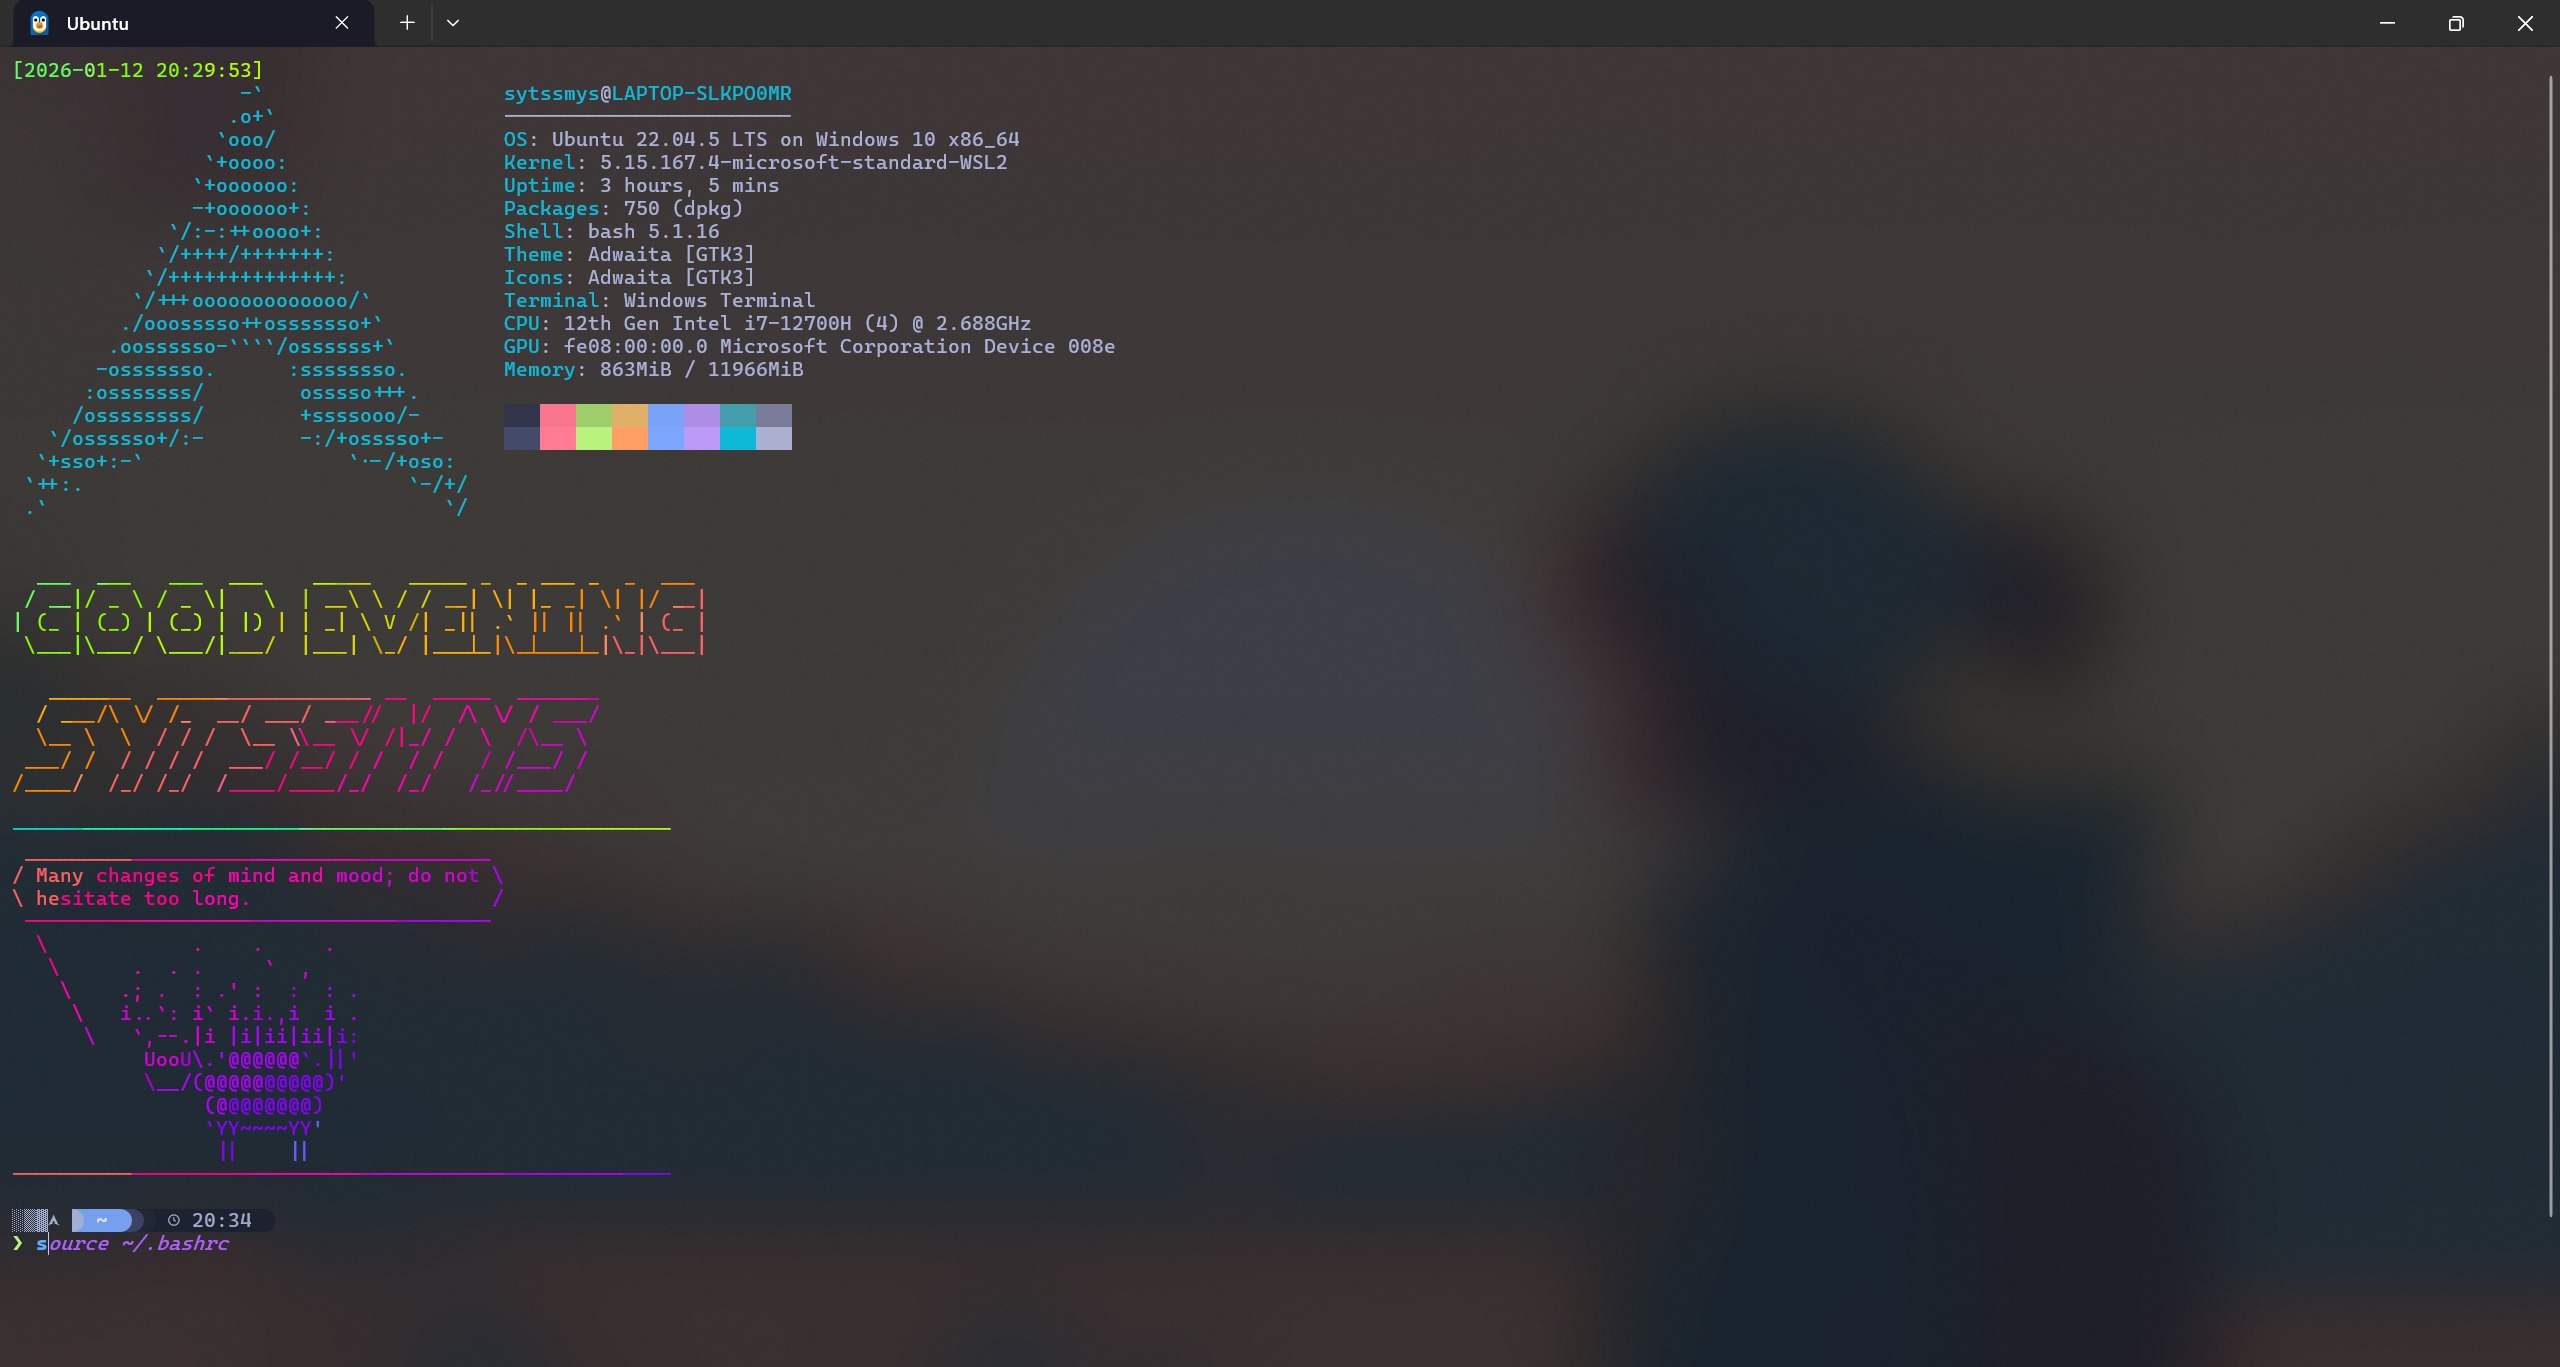
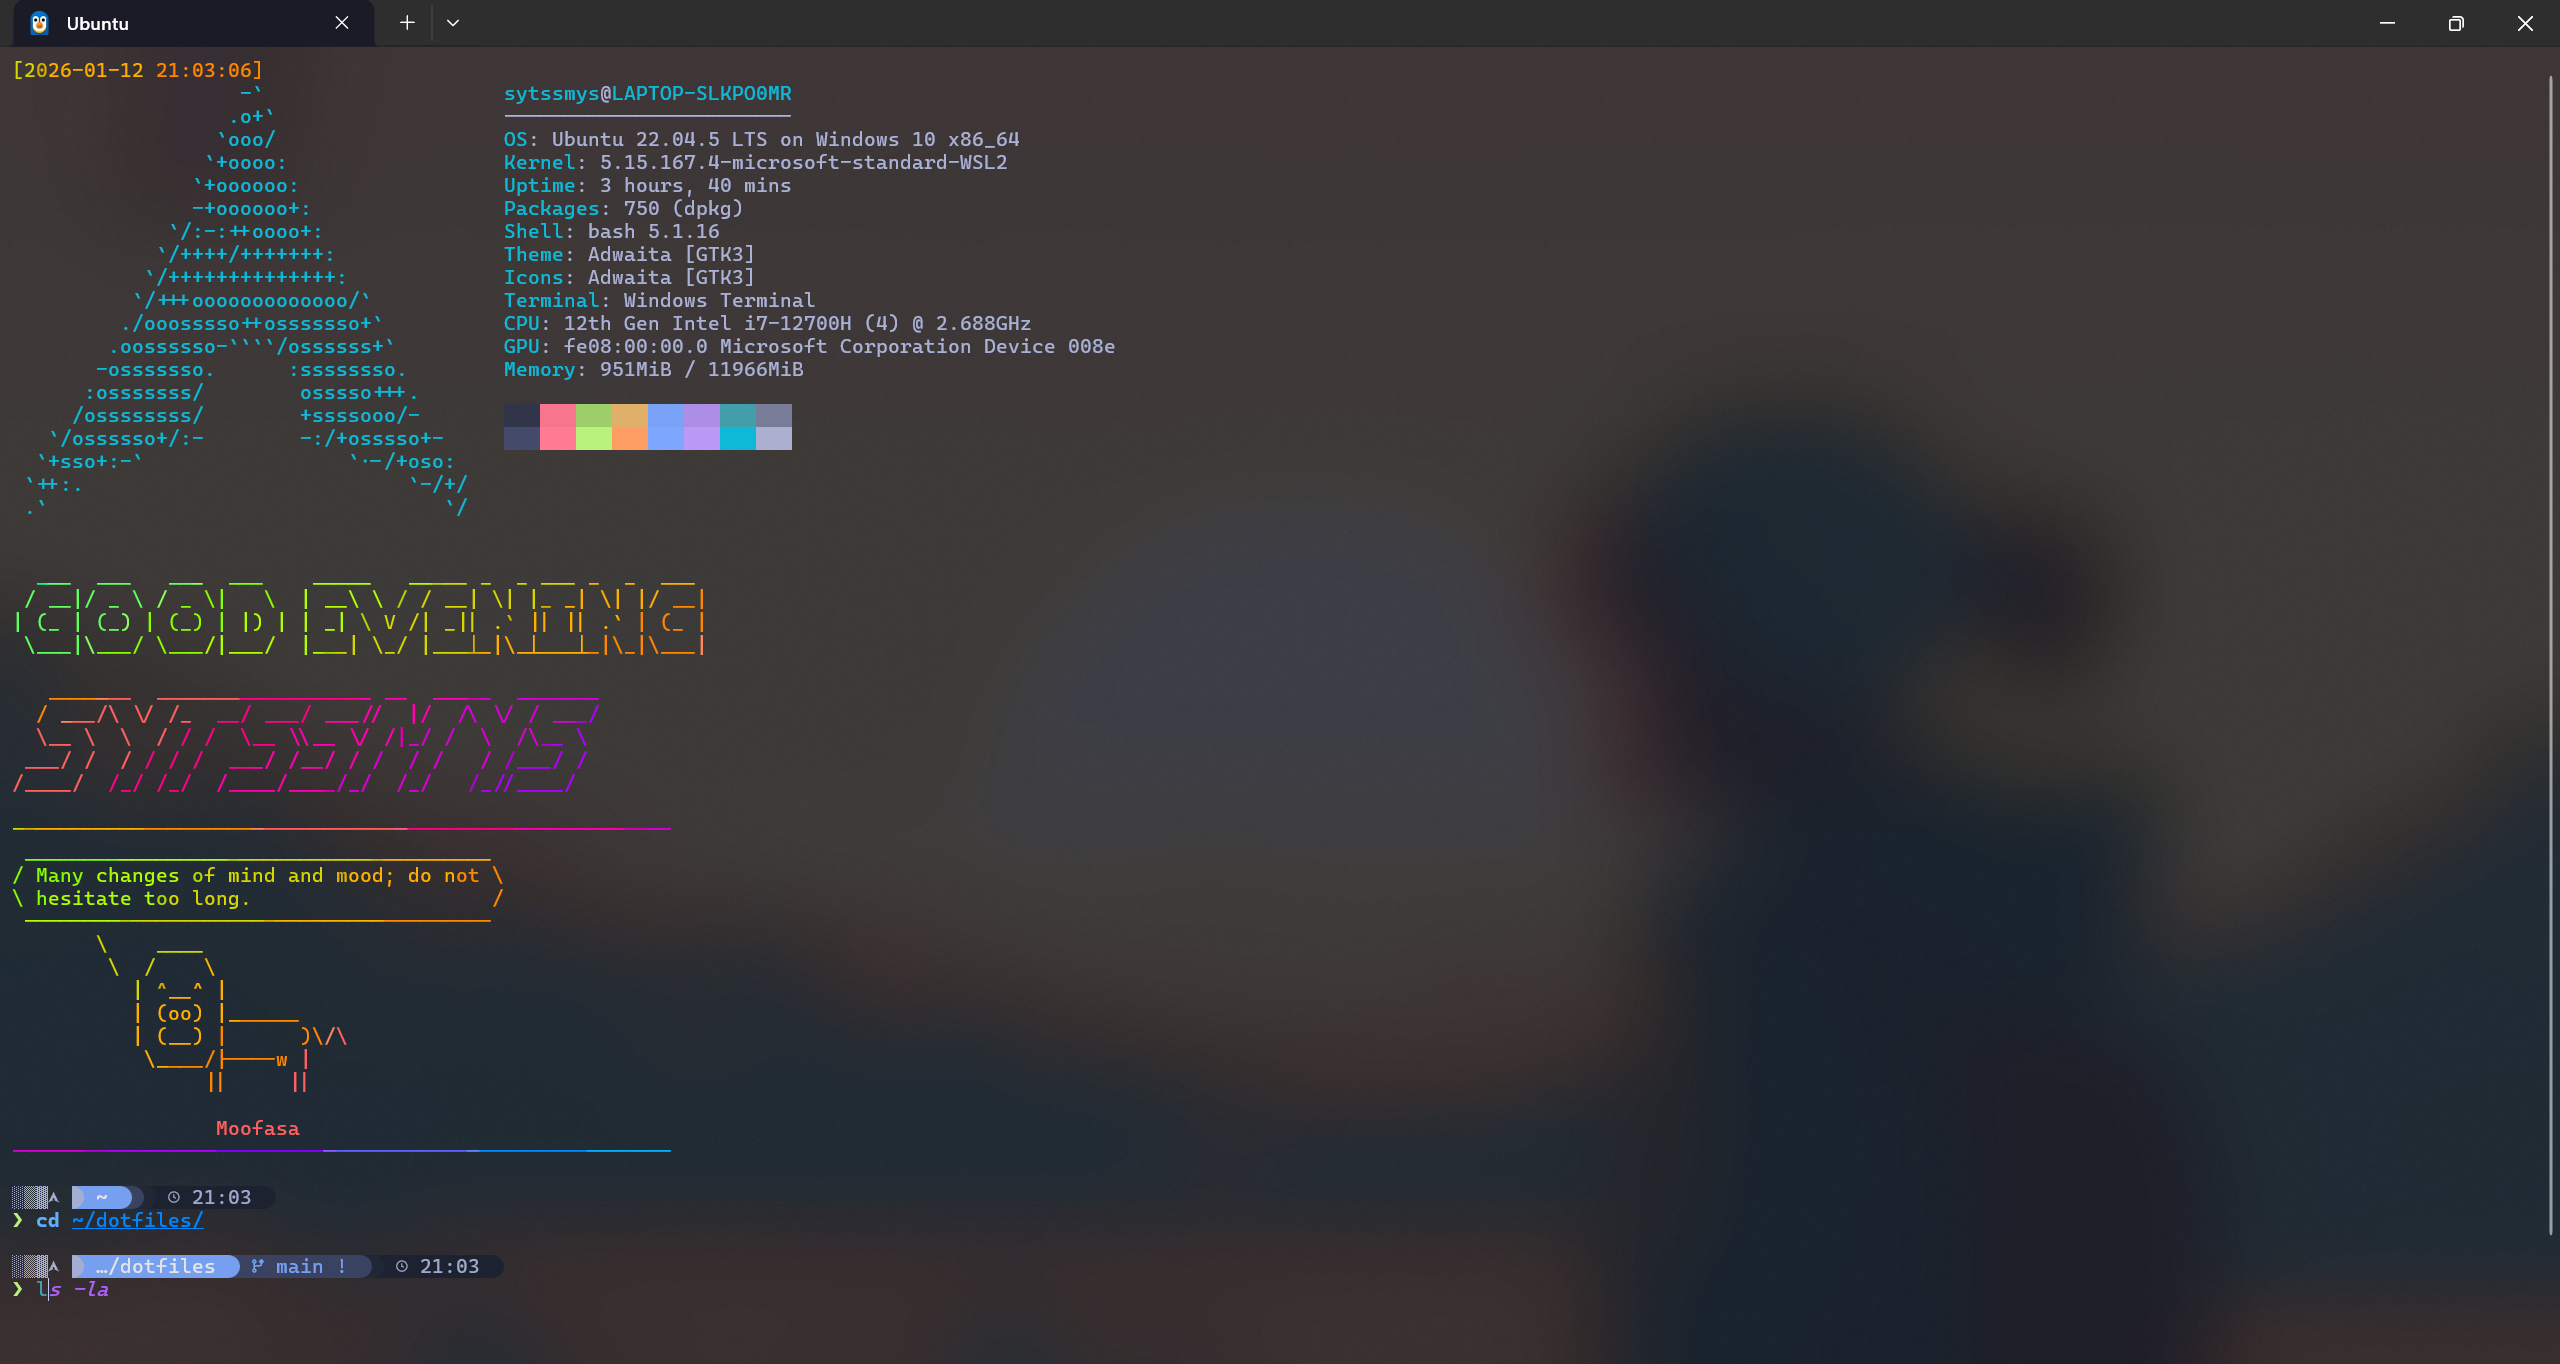
docs: update README

diff --git a/README.md b/README.md
@@ -14,6 +14,7 @@
 
 ## ✨ Features
 
+* **🌈 Stunning Welcome Interface**: 每次启动时自动显示彩虹色的系统信息与随机极客语录。
 * **🎨 Tokyo Night Theme**: 深度集成的东京夜色主题，从终端背景到补全提示。
 * **🚀 Starship Prompt**: 定制化的 "Arch Linux" 胶囊风格提示符。
 * **⚡ ble.sh Integration**: 为 Bash 带来类似 Zsh 的语法高亮和自动补全（紫色霓虹风）。
@@ -83,6 +84,11 @@
 ### 1. 安装依赖
 
 ```bash
+
+# 更新源并安装欢迎界面所需的工具
+sudo apt update
+sudo apt install -y neofetch fortune-mod lolcat
+
 # 安装 Starship
 curl -sS [https://starship.rs/install.sh](https://starship.rs/install.sh) | sh
 
